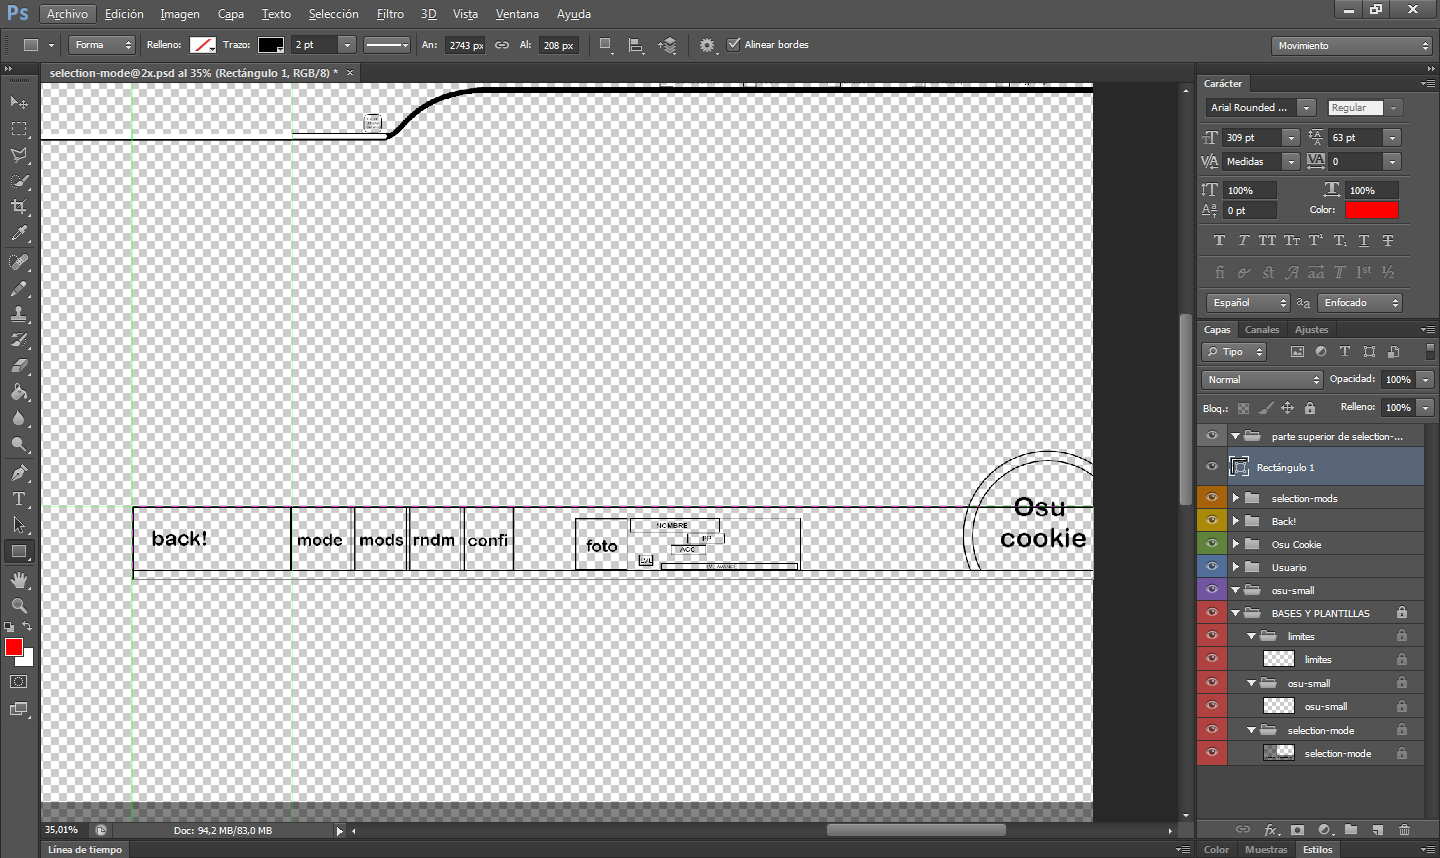
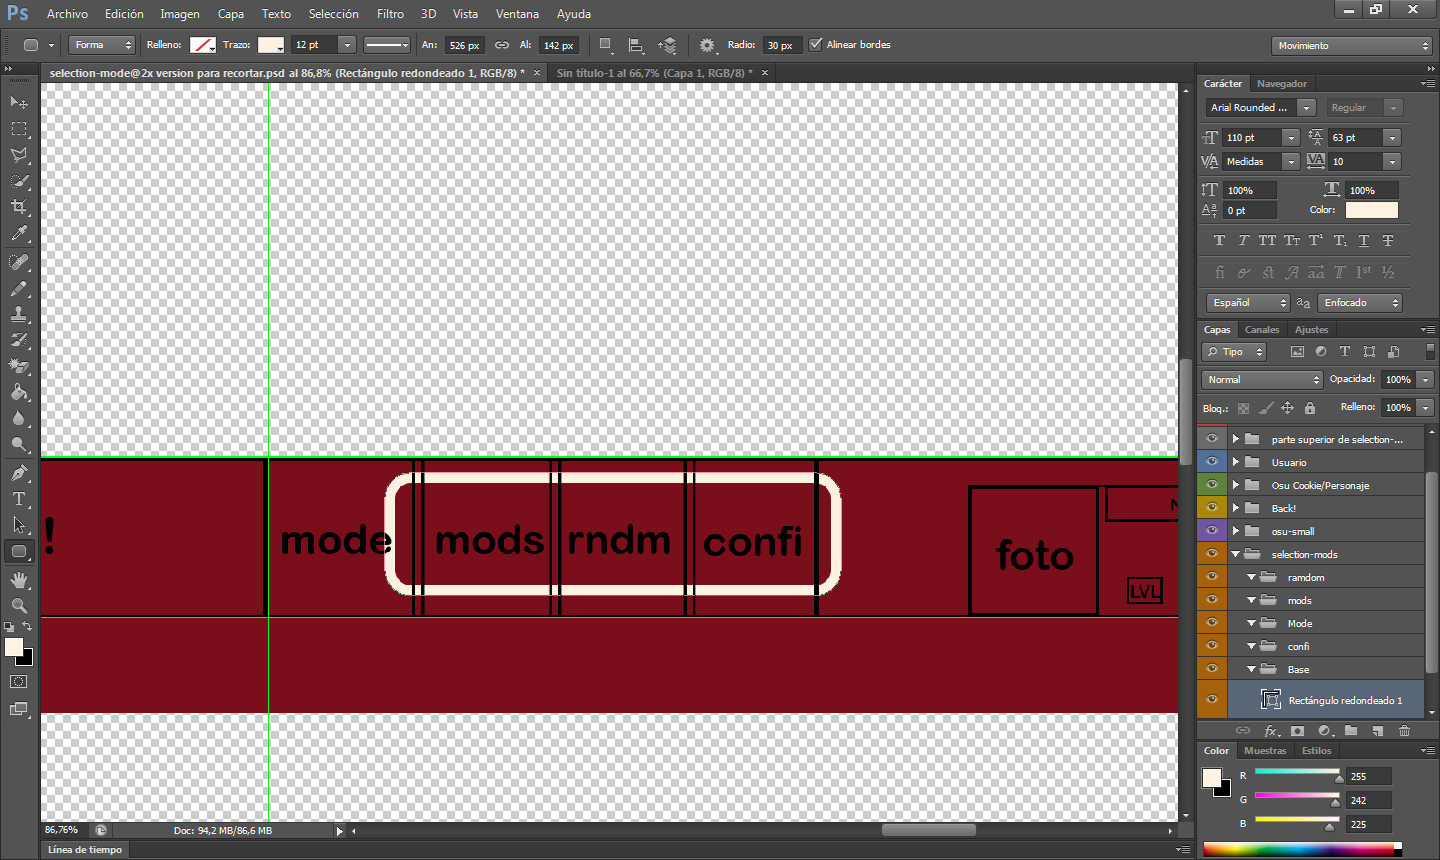
metedera de images y cambios al css y html

diff --git a/index.html b/index.html
@@ -31,7 +31,7 @@
             aquí aprenderas a hacer un selector de canciones (Menú) sencillo, un rankin panel y como no,
             un gameplay, lo más importante es la práctica así que no desistas si tienes dificultad, todos
             las hemos tenido, tenemos y tendremos a lo largo de nuestra vida, todo es cuestión de práctica así que si de verdad te gusta esto y quieres
-            ser un skinner profesional a la altura de Cyperdark, iSmilez, Flowfy o -Susei tienes que tener perseveracia, ser profesional y tener mucha paciente</p>
+            ser un skinner profesional a la altura de Cyperdark, iSmilez, Flowfy o -Susei tienes que tener perseveracia, tener profesionalismo y mucha pero MUCHA paciencia</p>
         <br>
         <br>
         <b>Requisitos:</b>
@@ -57,67 +57,273 @@
         <br>
         <br>
         <p class="menu-contenido">
-            Una vez descargado y abierto el archivo .PSD, seleccionamos la <b>Herramienta regtángulo</b> y hacemos dibujamos un regtángulo del largo del 'selection-mods', preferiblemente con un ancho 
-            de 1px, máximo 2px, respetando los limites de arriba y de la izquierda, los limites de abajo y derecha no importan mucho.
+            Una vez descargado y abierto el archivo .PDS, vamos a la carpeta que se llama 'Selection-mode' la subcarpeta 'Base' y con la herramienta regtángulo haces un regtángulo de a lo largo de 
+            toda la plantilla respetando los limites de arriba y la izquiera, el de la derecha y abajo no importan mucho porque después se van a recortar, preferiblemente sin bordes
         </p>
         <br>
         <br>
-        <img src="#" alt="Base de selection-mode">
+        <img src="img/1.png" alt="1">
         <br>
         <br>
-        <p class="menu-contenido">Ahora seguimos haciendo los bordes de los botones para seleccionar modo, mods, ramdom y ajustes, esto es a tu gusto, el único limitante es tu creatividad así que dale rienda suelta
-            a tu mente, yo lo haré sencillo para no complicarme la existencia, para eso escogeré la herramienta <b>Cuadro redondeado</b>, lo puedes seleccionar dando click derecho a la herramienta regtángulo, puedes cambiar el radio en la parte
-            de arriba por media de 'Px' (pixeles)
+        <p class="menu-contenido">Ahora seguimos haciendo los bordes de los botones para seleccionar modo, mods, ramdom y ajustes, esto es a tu gusto (yo lo haré sencillo para no complicarme la existencia 
+            en este pequeño curso, después de todo es básico) y para hacerlo escogeré la herramienta <b>Cuadro redondeado</b>, lo puedes seleccionar dando click derecho a la herramienta regtángulo, puedes cambiar el radio en la parte
+            de arriba por medio de 'Px' (pixeles), este elemento si tienes que darle un grosor consiredable al borde, obviamente de un color que se pueda diferenciar facilmente del color base
         </p>
         <br>
         <br>
-        <img src="#" alt="Base ajustes">
+        <img src="img/2.png" alt="2">
         <br>
         <br>
-        <p class="menu-contenido">Ahora siguen la parte donde esta la info del usuario como el PP, el ACC y el Lvl, como hicimos anteriormente solo haremos los bordes para tener una referencia de omo se va a ver,
-            una ves ya tegas listo estos bordes que son a mi parecer los más importante de toda la skin oculta la otras capas y junta las tres que hicimos anteriormente, ¿ya? Ahora sin salir de photoshop abre otra pestaña y pega los 3 bordes que hiciste,
-            esto lo hacemos con la intenciòn de entrar a Osu! y probar que todo concuerda, que todo esta donde debería estar, ahora dale a 'Guardar como' o presiona 'Alt + Ctrl + S' y asegurate que esta en formato .PNG para no tener problemas y que todo funcione como debe
-            funcionar, si tu resolución te permite ver las archivos '@2x' (que resumidamente son las mismas imagenes pero con una resolución mayor) dejalo así,l pero si en cambio no puedes ver los archivos '@2x' dentro del juego tendrás que poner la imagén a una resolución menor,
-            no te apresures que no puede ser cualquier resolución, tiene que ser un tamaño especifico y como te dije antes vamos a usar otra skin para saber el tamaño exacto, solo tienes que abrir la imagen que se llame <b>selection-mode</b> de cualquier skin y podrás configurar el tamaño
-            presionando 'Ctrl + T' (este atajo te servira para muchas cosas más, así que no lo olvides) y una vez ya hayas terminado de configurar la resolución solo guarda los cambios en la carpeta de tu skin, asegurate de que es .PNG y lo guardaras con el nombre 'selection-mode'
+        <p class="menu-contenido">Ahora siguen la parte donde esta la info del usuario como el PP, el ACC y el Lvl, como hicimos anteriormente solo haremos los bordes para tener una referencia de como se va a ver,
+            una ves ya esten listos los bordes seleccionalas clikeandolas mientras tienes presionado Shift y juntalas (Click derecho, combinar las capas), ¿Ves que fácil?
         </p>
         <br>
         <br>
-        <img src="" alt="como debe quedar alineado el menu">
+        <img src="img/3.png" alt="3">
         <br>
         <br>
-        <b>NOTA MUY IMPORTANTE: Se me olvido aclarar que en el archivo 'selection-mode' tienes que eliminar la parte correspondiente al boton de 'Back' ya que este es un archivo aparte y si lo pones con el 'selection-mode' no va a funcionar y nunca va a tener un menu alineado</b>
+        <p class="menu-contenido">Ahora vamos a ver como hacer el Botón de <b>Back</b>, esta es la parte más sencilla si tu skin no tiene animaciones, solo tienes que seleccionar la herramienta 'Texto' escribe 'Back' y listo, ya tienes el boton de back, ¿Ves que fácil?
         <br>
         <br>
-        <img src="" alt="como borrar el boton de Back">
+        <img src="img/4.png" alt="4">
         <br>
         <br>
-        <p class="menu-contenido">Ahora vamos a ver como hacer el Botón de <b>Back</b>, esta es la parte más sencilla del menú, solo colorea el fondo obviamente con el mismo color que el 'selection-mode' y con la herramienta 'Texto' escribele 'Back' y listo, ya tienes el boton de back, ves que fácil,
-        ahora recortala para que el boton de back sea lo único que contenga la imagen y guardala como 'menu-back', recuerda que tiene que ser .PNG</p>
+        <p class="menu-contenido">Ahora vamos a probar la skin, solo seleccionamos la herramienta 'Recortar' y seleccionamos con mucho cuidado lo que queremos recortar y la guardamos como archivo .PNG, primero vamos a recortar el botón de 'Back' el cual vamos a guardar con el nombre
+            'menu-back@2x'</p>
         <br>
         <br>
-        <img src="" alt="como debe quedar el boton de back">
+        <img src="img/5.png" alt="5">
+        <br>
+        <img src="img/6.png" alt="6">
         <br>
         <br>
-        <p class="menu-contenido">Vamos a probar la skin para ver que tal va quedando, solo abre tu skin en Osu! y podrás ver que tal</p>
+        <p class="menu-contenido">El próximo paso es recortar el 'Selection-mode', hacemos lo mismo que con el botón de 'Back' pero esta vez vamos a borrar una pequeña parte de la base, vamos a eliminar solamente la parte donde van tus stats 'Foto de perfil, Nickname, PP, Accuracy, Lvl y Exp'
+            esto lo hacemos porque si lo dejamos así no se verá nada de nuestro usuario, podemos borrar con confianza ya que los bordes están en otra capa y no se borraran pero obviamente no te salgas del borde, una vez hayas terminado de borrar la base y puedas ver atraves guardas la imagen con
+            con el nombre 'selection-mode@2x'
+        </p>
         <br>
         <br>
-        <img src="" alt="visualización de la skin">
+        <img src="img/7.png" alt="7">
         <br>
         <br>
-        <p class="menu-contenido">Va quedando muy bien, felicidades pero aún no hemos terminado con el menu, aún nos falta un elemento de lo más importante y acá es donde vamos a empezar a darle nuestro toque personal a la skin, el 'Good Luck', bueno en realidad no es tan importante pero si le da un toque
-        muy lindo a tu skin, es algo pequeño pero que hace mucho una vez integrado y es tan fácil como copiarlo y pegarlo de otra skin, no te preocupes que todos son iguales si quieres cambiale el color a la linea de abajo con el coler tema de tu skin, verifica que este en el lugar correcto ya que al principio 
-        es algo complicado ubicarlo de forma correcta pero cuando te acostumbres lo harás en menos de 5 segundos, creeme, solo falta ponerle si quieres alguna imagen arriba del elemento que acabamos de crear y su respectivo 'Good Luck' o 'Enjoy the Game' o lo que quieras, eso es todo tuyo haz con ella lo que quieras</p>
+        <p class="menu-contenido">No te apresures a ir a probar la skin en Osu!, falta un pequeño pero importante detalle, una vez hayas guardado el botón de 'Back' y el 'selection-mode'... Vuelvelos a abrir y haz el próximo comando 'Alt + Ctrl + Q' se te abrirá una pequeña ventana donde podrás editar el tamaño de tus
+            elementos, cambia la opción 'Pixeles' que te aparece por defecto y cambiala por porcentaje este paso no quiero que se te olvide NUNCA pon el 50% de tamaño y guarda con el mismo nombre pero sin el '@2x', es decir que si estás editando el tamaño de 'selection-mode@2x' lo vas a guardar como 
+            'selection-mode' y si estás editando el tamaño de 'menu-back@2x' la versión que el 50% del tamaño lo vas a guardar como 'menu-back', esto es uno de los pasos más importantes a la hora de hacer skins ya que permite que las personas con una resolución menor puedan usar tu skin, si por el contrario tu skin solo tiene los
+            archivos con el tamaño '@2x'a las personas con una pantalla no tan grande tu skin no cambiara NADA</p>
         <br>
         <br>
-        <img src="" alt="coso que va arriba del menu ahr">
+        <img src="img/8.png" alt="8">
+        <br>
+        <img src="img/9.png" alt="9">
+        <p class="menu-contenido">Ya cuando tengas todo guardado y preparado abré el juego para probar la skin y ver como nos va quedando, si no te queda bien revisa una y otra vez, tal vez tengas algo mal puesto y tengas que reubicarlo</p>
         <br>
         <br>
-        <p class="menu-contenido">Ya terminamos con el menú por ahora, felicidades acabas de dar tu primer paso para convertirte en un skinner respetable en la comunidad de Osu! pero nuestro viaje no acaba aquí, todavía nos falta mucho por aprender en el siguiente articulo estaremos creando el ranking-panel una de las cosas que más notamos
-        de una skin</p>
+        <img src="img/10.jpg" alt="10">
         <br>
         <br>
-        <img src="" alt="ranking-panel adelanto">
+        <p class="menu-contenido">Va quedando muy bien por ahora, pero todavía no terminamos, nos falta la parte superior de los 'selection-mode' que no se como se llama pero ahí están y aportan lo suyo a la skin, aúnque no es 100% obligatorio usarlo y hay muchisimas buenas skins que no los tienen da un pequeño aire profesional y de calidad a la skin,
+            es tan difícil como copiar y pegar de otra skin (casi todas son lo mismo, si le quieres agregar otro cacho solamente le pones sin ningún problema) lo único que haremos será cambiarle el color al borde original pero no es la gran cosa,
+            si quieres agregarle el cuadro de 'Buscar' puedes ponerselo sin ningún problema también, para este ejemplo vamos a usar una de mis skins para que no hayan confuciones
+        </p>
+        <br>
+        <br>
+        <img src="img/11.png" alt="11">
+        <br>
+        <br>
+        <p class="menu-contenido">Solo la editamos un poco y la pegamos en nuestro proyecto</p>
+        <br>
+        <br>
+        <img src="img/12.png" alt="12">
+        <br>
+        <br>
+        <p class="menu-contenido"></p>
+        <br>
+        <br>
+        <img src="" alt="">
+        <br>
+        <br>
+        <p class="menu-contenido"></p>
+        <br>
+        <br>
+        <img src="" alt="">
+        <br>
+        <br>
+        <p class="menu-contenido"></p>
+        <br>
+        <br>
+        <img src="" alt="">
+        <br>
+        <br>
+        <p class="menu-contenido"></p>
+        <br>
+        <br>
+        <img src="" alt="">
+        <br>
+        <br>
+        <p class="menu-contenido"></p>
+        <br>
+        <br>
+        <img src="" alt="">
+        <br>
+        <br>
+        <p class="menu-contenido"></p>
+        <br>
+        <br>
+        <img src="" alt="">
+        <br>
+        <br>
+        <p class="menu-contenido"></p>
+        <br>
+        <br>
+        <img src="" alt="">
+        <br>
+        <br>
+        <p class="menu-contenido"></p>
+        <br>
+        <br>
+        <img src="" alt="">
+        <br>
+        <br>
+        <p class="menu-contenido"></p>
+        <br>
+        <br>
+        <img src="" alt="">
+        <br>
+        <br>
+        <p class="menu-contenido"></p>
+        <br>
+        <br>
+        <img src="" alt="">
+        <br>
+        <br>
+        <p class="menu-contenido"></p>
+        <br>
+        <br>
+        <img src="" alt="">
+        <br>
+        <br>
+        <p class="menu-contenido"></p>
+        <br>
+        <br>
+        <img src="" alt="">
+        <br>
+        <br>
+        <p class="menu-contenido"></p>
+        <br>
+        <br>
+        <img src="" alt="">
+        <br>
+        <br>
+        <p class="menu-contenido"></p>
+        <br>
+        <br>
+        <img src="" alt="">
+        <br>
+        <br>
+        <p class="menu-contenido"></p>
+        <br>
+        <br>
+        <img src="" alt="">
+        <br>
+        <br>
+        <p class="menu-contenido"></p>
+        <br>
+        <br>
+        <img src="" alt="">
+        <br>
+        <br>
+        <p class="menu-contenido"></p>
+        <br>
+        <br>
+        <img src="" alt="">
+        <br>
+        <br>
+        <p class="menu-contenido"></p>
+        <br>
+        <br>
+        <img src="" alt="">
+        <br>
+        <br>
+        <p class="menu-contenido"></p>
+        <br>
+        <br>
+        <img src="" alt="">
+        <br>
+        <br>
+        <p class="menu-contenido"></p>
+        <br>
+        <br>
+        <img src="" alt="">
+        <br>
+        <br>
+        <p class="menu-contenido"></p>
+        <br>
+        <br>
+        <img src="" alt="">
+        <br>
+        <br>
+        <p class="menu-contenido"></p>
+        <br>
+        <br>
+        <img src="" alt="">
+        <br>
+        <br>
+        <p class="menu-contenido"></p>
+        <br>
+        <br>
+        <img src="" alt="">
+        <br>
+        <br>
+        <p class="menu-contenido"></p>
+        <br>
+        <br>
+        <img src="" alt="">
+        <br>
+        <br>
+        <p class="menu-contenido"></p>
+        <br>
+        <br>
+        <img src="" alt="">
+        <br>
+        <br>
+        <p class="menu-contenido"></p>
+        <br>
+        <br>
+        <img src="" alt="">
+        <br>
+        <br>
+        <p class="menu-contenido"></p>
+        <br>
+        <br>
+        <img src="" alt="">
+        <br>
+        <br>
+        <p class="menu-contenido"></p>
+        <br>
+        <br>
+        <img src="" alt="">
+        <br>
+        <br>
+        <p class="menu-contenido"></p>
+        <br>
+        <br>
+        <img src="" alt="">
+        <br>
+        <br>
+        <p class="menu-contenido"></p>
+        <br>
+        <br>
+        <img src="" alt="">
+        <br>
+        <br>
+        <p class="menu-contenido"></p>
+        <br>
+        <br>
+        <img src="" alt="">
+        <br>
+        <br>
+        <p class="menu-contenido"></p>
+        <br>
     </div>
     <div class="nav">
         <a href="#" class="atras">Atrás</a>

diff --git a/styles.css b/styles.css
@@ -3,13 +3,12 @@
     font-size: 1.05rem;
     margin: 0 auto;
 }
-
 .cabecera {
     background: none;
     color: white;
     padding: 0;
     background-color: black;
-    position: relative;
+    position: fixed;
     right: 0;
     top: 0;
     left: 0;
@@ -52,10 +51,13 @@
 }
 .contenido {
     margin: 5em 4em;
-
+    padding: 3em;
 }
 .contenido .tema {
     font-size: 2.5em;
+}
+.contenido img {
+    height: 39em;
 }
 .psd {
     text-decoration: none;
